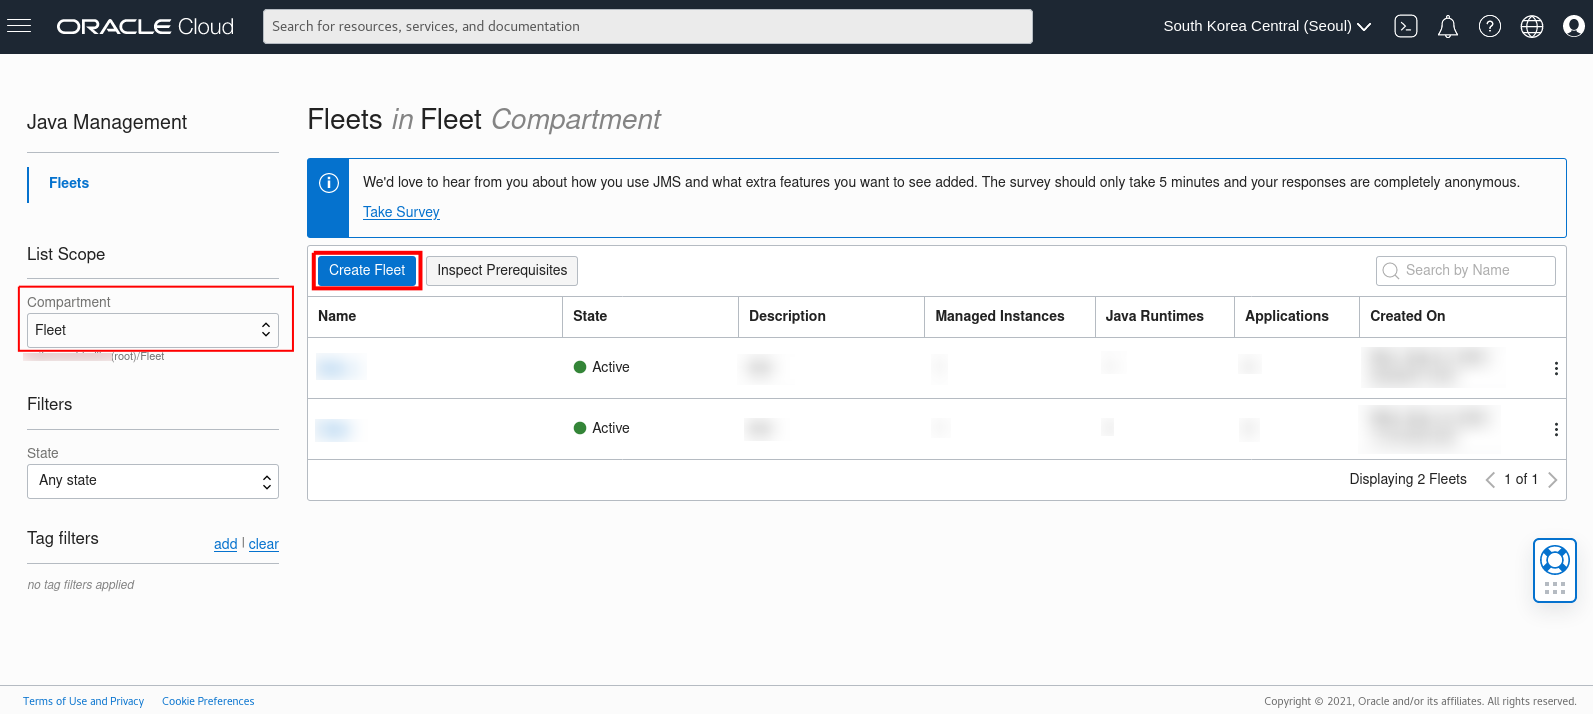
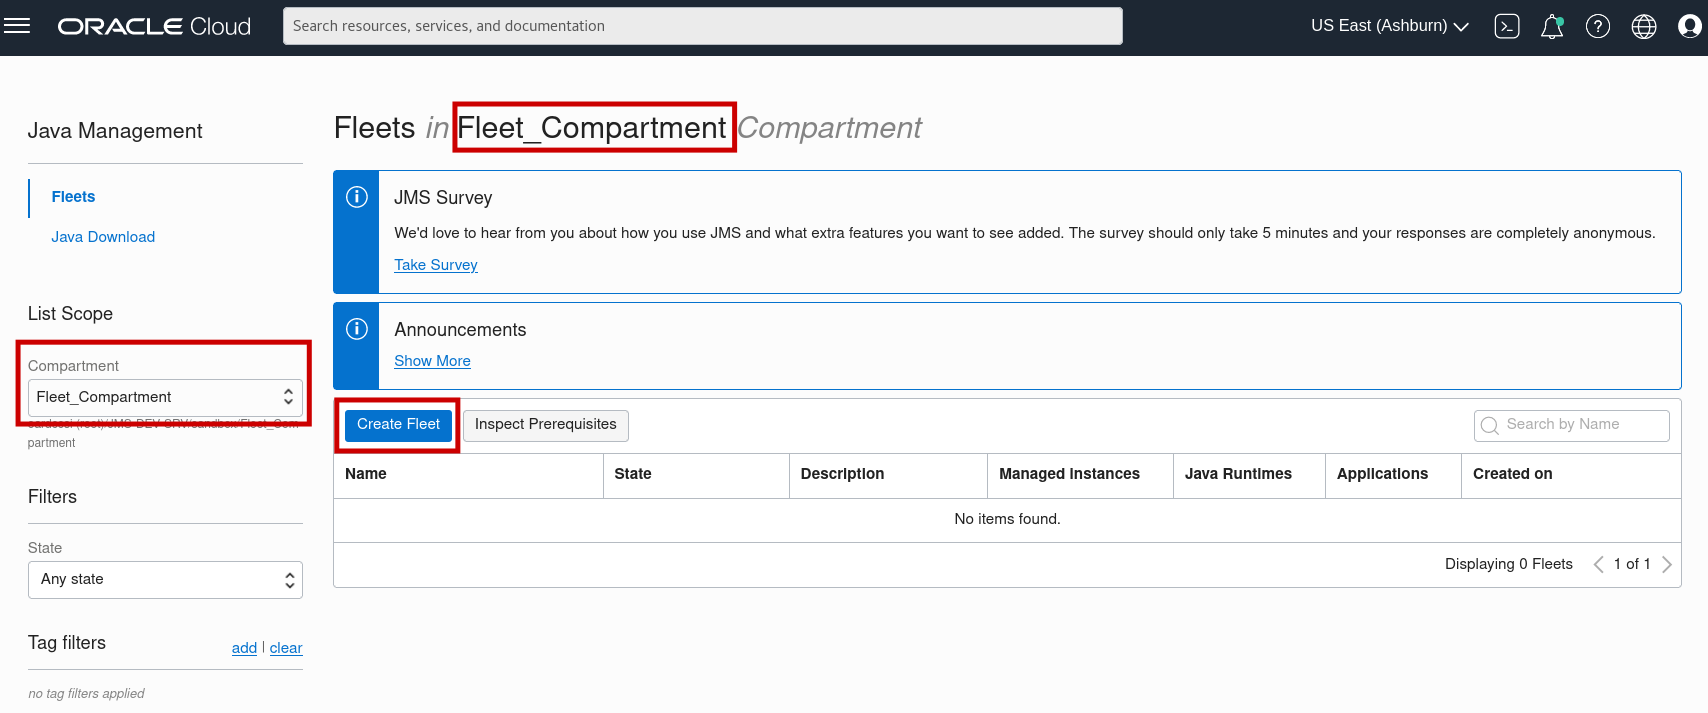
made content changes as per feedback

diff --git a/oci-library/oci-hol/java-management/set-up-oci-for-jms/set-up-oci-for-jms.md b/oci-library/oci-hol/java-management/set-up-oci-for-jms/set-up-oci-for-jms.md
@@ -3,7 +3,7 @@
 ## Introduction
 Before you can use Java Management Service, you must ensure that your Oracle Cloud Infrastructure environment is set up correctly to allow the communication flow between all required components and cloud services.
 
-This section describes the steps to set up Oracle Cloud Infrastructure for Java Management Service. You may choose to use the Onboarding Wizard or perform the steps manually.
+This section describes the steps to set up Oracle Cloud Infrastructure for Java Management Service. You may choose to use the **Onboarding Wizard** or perform the steps **manually**. You can choose **either** the Onboarding Wizard option or Manual Setup option to setup your OCI resources. The Lab provides instructions for both. It is recommended for users new to OCI to use the Onboarding Wizard option.
 
 Before you begin, review the prerequisites and the overview of the steps.
 
@@ -25,13 +25,14 @@ In this lab, you will:
 ### Prerequisites
 You will need an OCI account with administrative privileges to complete this lab. If you do not have one, you may sign up [here](https://www.oracle.com/cloud/free/) for a free-tier account.
 
-## Task 1: Create OCI Resources
+## Task 1: Create OCI Resources - Using Onboarding Wizard
 
-You can choose **either** the Onboarding Wizard option or Manual Setup option to setup your OCI resources. Below, there are instructions for both. It is recommended for users new to OCI to use the Onboarding Wizard option.
-### Option 1: Onboarding Wizard (Recommended for first time users of OCI)
+### Option 1: Using the Onboarding Wizard to automatically creates the necessary resources.
 
-Using the Onboarding Wizard to automatically creates the necessary resources.
-&nbsp;
+<!-- You can choose **either** the Onboarding Wizard option or Manual Setup option to setup your OCI resources. Below, there are instructions for both. It is recommended for users new to OCI to use the Onboarding Wizard option.
+### Option 1: Onboarding Wizard (Recommended for first time users of OCI) -->
+<!-- Using the Onboarding Wizard to automatically creates the necessary resources. -->
+<!-- &nbsp; -->
 1. Sign in to the Oracle Cloud Console as an administrator using the credentials provided by Oracle, as described in [Signing into the Console](https://docs.oracle.com/en-us/iaas/Content/GSG/Tasks/signingin.htm). See [Using the Console](https://docs.oracle.com/en-us/iaas/Content/GSG/Concepts/console.htm) for more information.
 &nbsp;
 
@@ -91,6 +92,7 @@ Using the Onboarding Wizard to automatically creates the necessary resources.
     * Confirm the creation of new tag namespace and tag key.
         ![image of new tag namespace and tag key](/../images/new-tag-namespace.png)
 
+## Task 2: Create OCI Resources - Manual
 
 ### Option 2: Manual Setup (If customization required)
 
@@ -177,7 +179,9 @@ Sign in to the Oracle Cloud Console as an administrator using the credentials pr
 
 6. Create Policies.
 
-    Create policies for the user group to access and manage JMS fleets, management agents, agent install keys, metrics, and tag namespaces. A policy allows members of a user group to access and manage OCI resources.
+    **Policy**: A policy is a document that specifies who can access which Oracle Cloud Infrastructure resources that your company has, and how. A policy simply allows a group to work in certain ways with specific types of resources  in a particular compartment.
+
+    Create policies for the user group to access and manage JMS fleets, management agents, agent install keys, metrics, and tag namespaces. 
     &nbsp;
     * In the Oracle Cloud Console, open the navigation menu and click **Identity & Security**. Under **Identity**, click **Policies**.
     &nbsp;
@@ -260,6 +264,8 @@ Sign in to the Oracle Cloud Console as an administrator using the credentials pr
 * Use the [Troubleshooting](https://docs.oracle.com/en-us/iaas/jms/doc/troubleshooting.html#GUID-2D613C72-10F3-4905-A306-4F2673FB1CD3) chapter for explanations on how to diagnose and resolve common problems encountered when installing or using Java Management Service.
 
 * If the problem still persists or if the problem you are facing is not listed, please refer to the [Getting Help and Contacting Support](https://docs.oracle.com/en-us/iaas/Content/GSG/Tasks/contactingsupport.htm) section or you may open a a support service request using the **Help** menu in the OCI console.
+
+* Refer to the [How Policies Work](https://docs.oracle.com/en-us/iaas/Content/Identity/Concepts/policies.htm#How_Policies_Work) section of OCI documentation for more details.
 
 ## Acknowledgements
 

diff --git a/oci-library/oci-hol/java-management/introduction/introduction.md b/oci-library/oci-hol/java-management/introduction/introduction.md
@@ -4,7 +4,7 @@
 
 Java Management Service (JMS) is a reporting and management infrastructure integrated with Oracle Cloud Infrastructure Platform services to observe and manage your use of Java SE (on-premises or in the Cloud).
 
-Watch the video below for an introduction to Java Management Service and a brief demo. <em>Note, screens and flow may have changed</em>
+Watch the video below for an introduction to Java Management Service and a brief demo.
 
 [](youtube:YCgJxqvglCI)
 
@@ -27,7 +27,7 @@ As the stewards of Java, Oracle can provide answers to these questions. Oracle u
 
 ## About this Workshop
 
- This workshop will walk you through the process of setting up and using Java Management Service (JMS) on Oracle Cloud Infrastructure (OCI). It will first walk you through how to set up the environment and create the necessary OCI resources such as Tagging, User Groups, Dynamic Groups and Policies in order to start using JMS. It will then guide you through the process of deploying a simple Java Application in an OCI compute instance, followed by creating a fleet, which is the primary collection with which you interact when using JMS and contains Managed Instances that share a common management approach. Next, you will learn how to set up the Management Agent on your host machine to monitor your Java application and view it inside a fleet in JMS. Later, you will learn how to get set up and access Java Management Service using REST APIs via OCI Command Line Interface (CLI) and Software Development Kit (SDK). Finally, the workshop will show you a simple example of setting up a Java Application in a Docker container and monitoring it using JMS.
+ This workshop will walk you through the process of setting up and using Java Management Service (JMS) on Oracle Cloud Infrastructure (OCI). It will first walk you through how to set up the environment and create the necessary OCI resources such as Tagging, User Groups, Dynamic Groups and Policies in order to start using JMS. It will then guide you through the process of creating a fleet,  which is the primary collection with which you interact when using JMS and contains Managed Instances that share a common management approach, followed by the process of deploying a simple Java Application in an OCI compute instance and Windows OS. Next, you will learn how to set up the Management Agent on your host machine to monitor your Java application and view it inside a fleet in JMS. Later, you will see a simple example of setting up a Java Application in a Docker container and monitoring it using JMS. Finally, the workshop will show how to setup Logrotate on Linux and Windows OS and Setup multiple Managed Instances along with Management Gateway.
 
 *Estimated Time:* 100 minutes
 
@@ -36,8 +36,11 @@ As the stewards of Java, Oracle can provide answers to these questions. Oracle u
 * Setting Up Oracle Cloud Infrastructure for JMS
 * Creating a Fleet and installing management agent on your host
 * Deploy Java application and view usage in JMS
-* Access and Utilise JMS SDKs
+* Understand vital concepts related to Management Agent installation
+* Installing Management Agent on OCI computes using Oracle Cloud Agent (OCA)
 * Track Java Usage in a Container
+* Setup multiple managed instances and Management Gateway
+* Setup logrotate on Linux and Windows OS
 
 ### Prerequisites
 

diff --git a/oci-library/oci-hol/java-management/setup-a-fleet/setup-a-fleet.md b/oci-library/oci-hol/java-management/setup-a-fleet/setup-a-fleet.md
@@ -25,7 +25,7 @@ In this lab, you will:
 
   ![image of console navigation to java management service](/../images/console-navigation-jms.png)
 
-2. Select the compartment created for JMS resources in Lab 1 and **Create Fleet**.
+2. Select the compartment created for JMS resources in Lab 1 (Compartment name should be **Fleet_Compartment**) and **Create Fleet**.
 
   ![image of create fleet](/../images/create-fleet-create-new.png)
 
